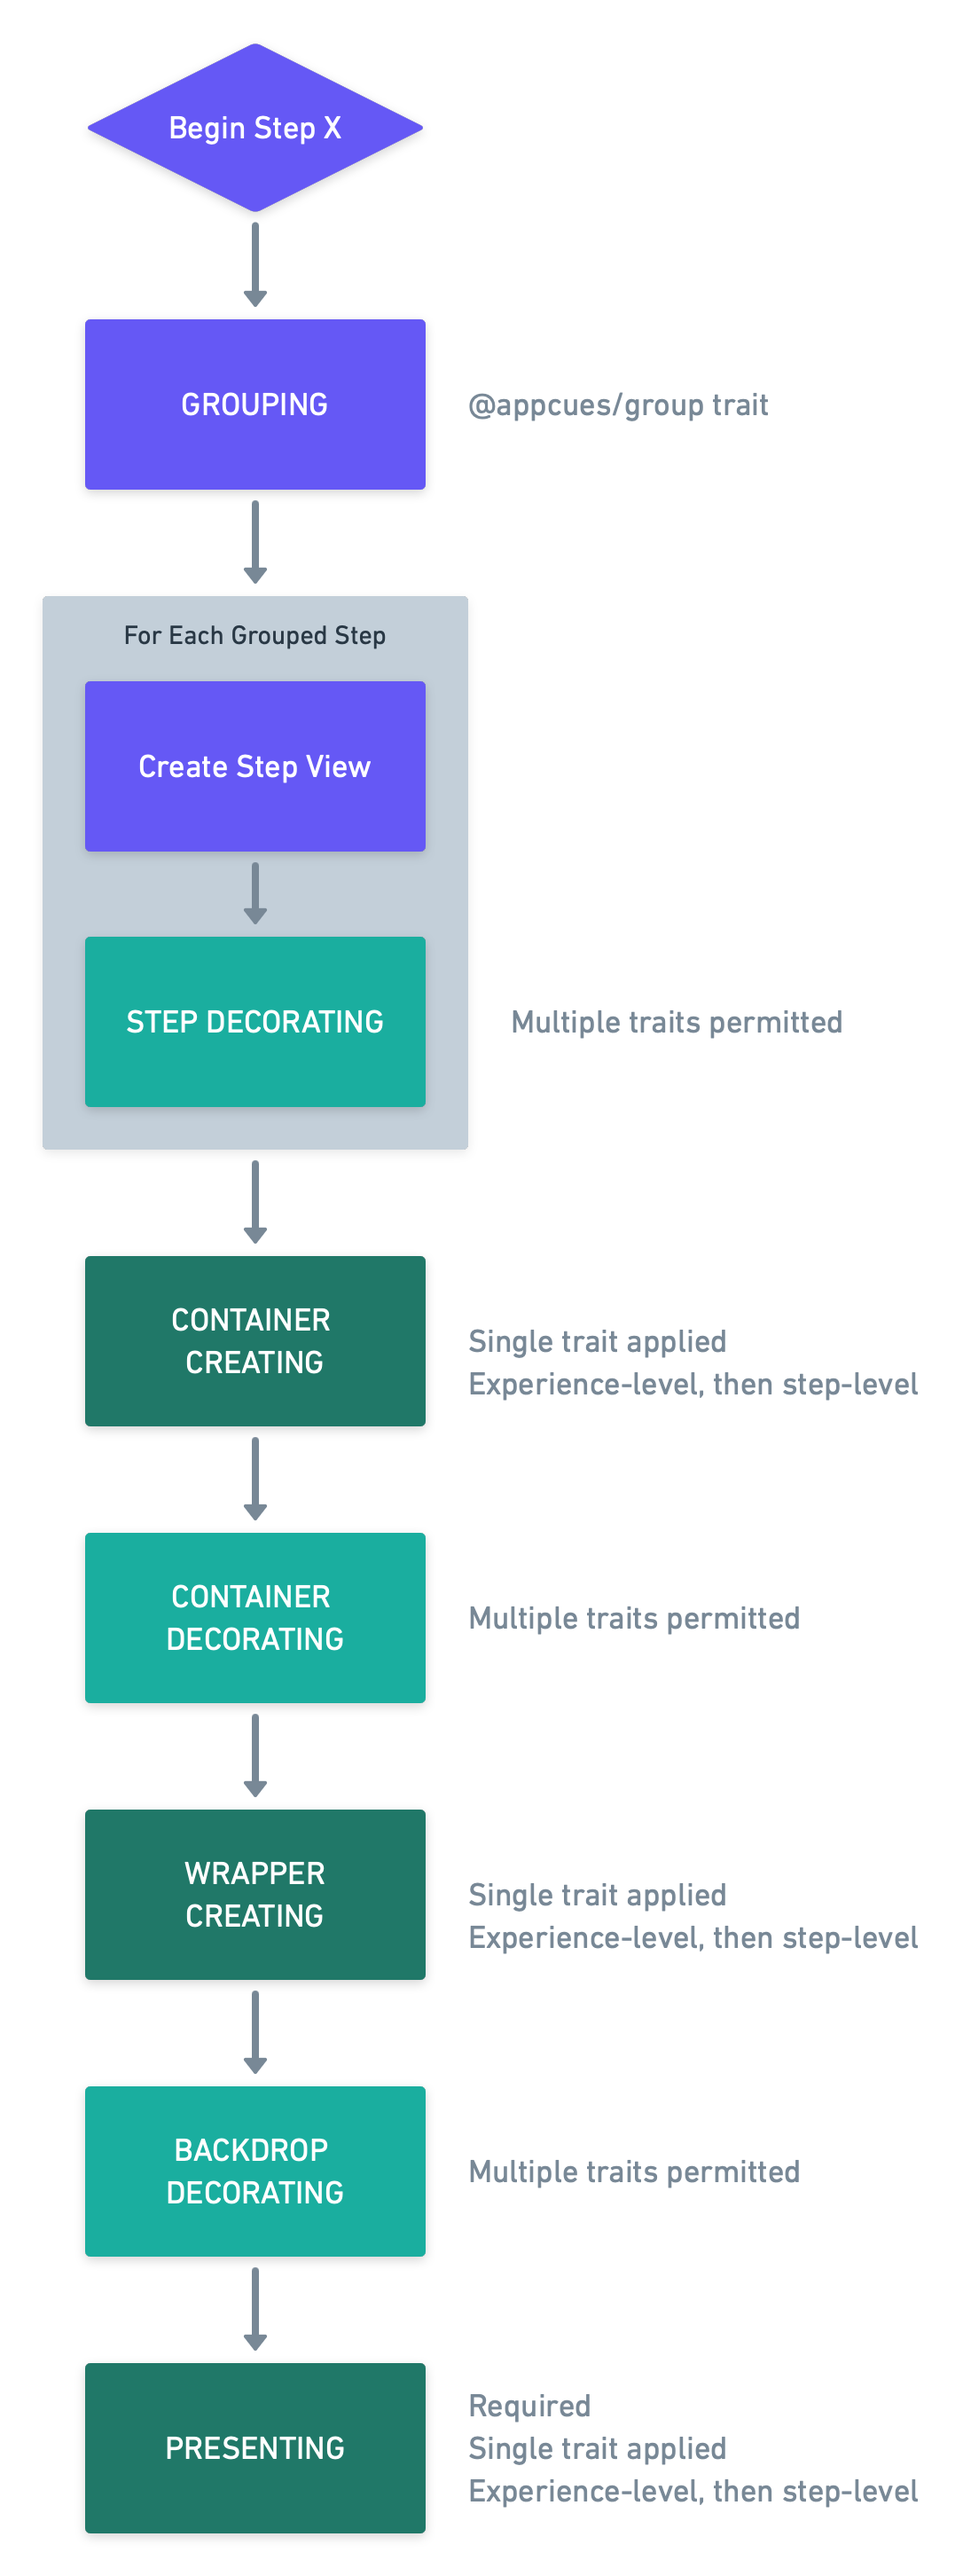
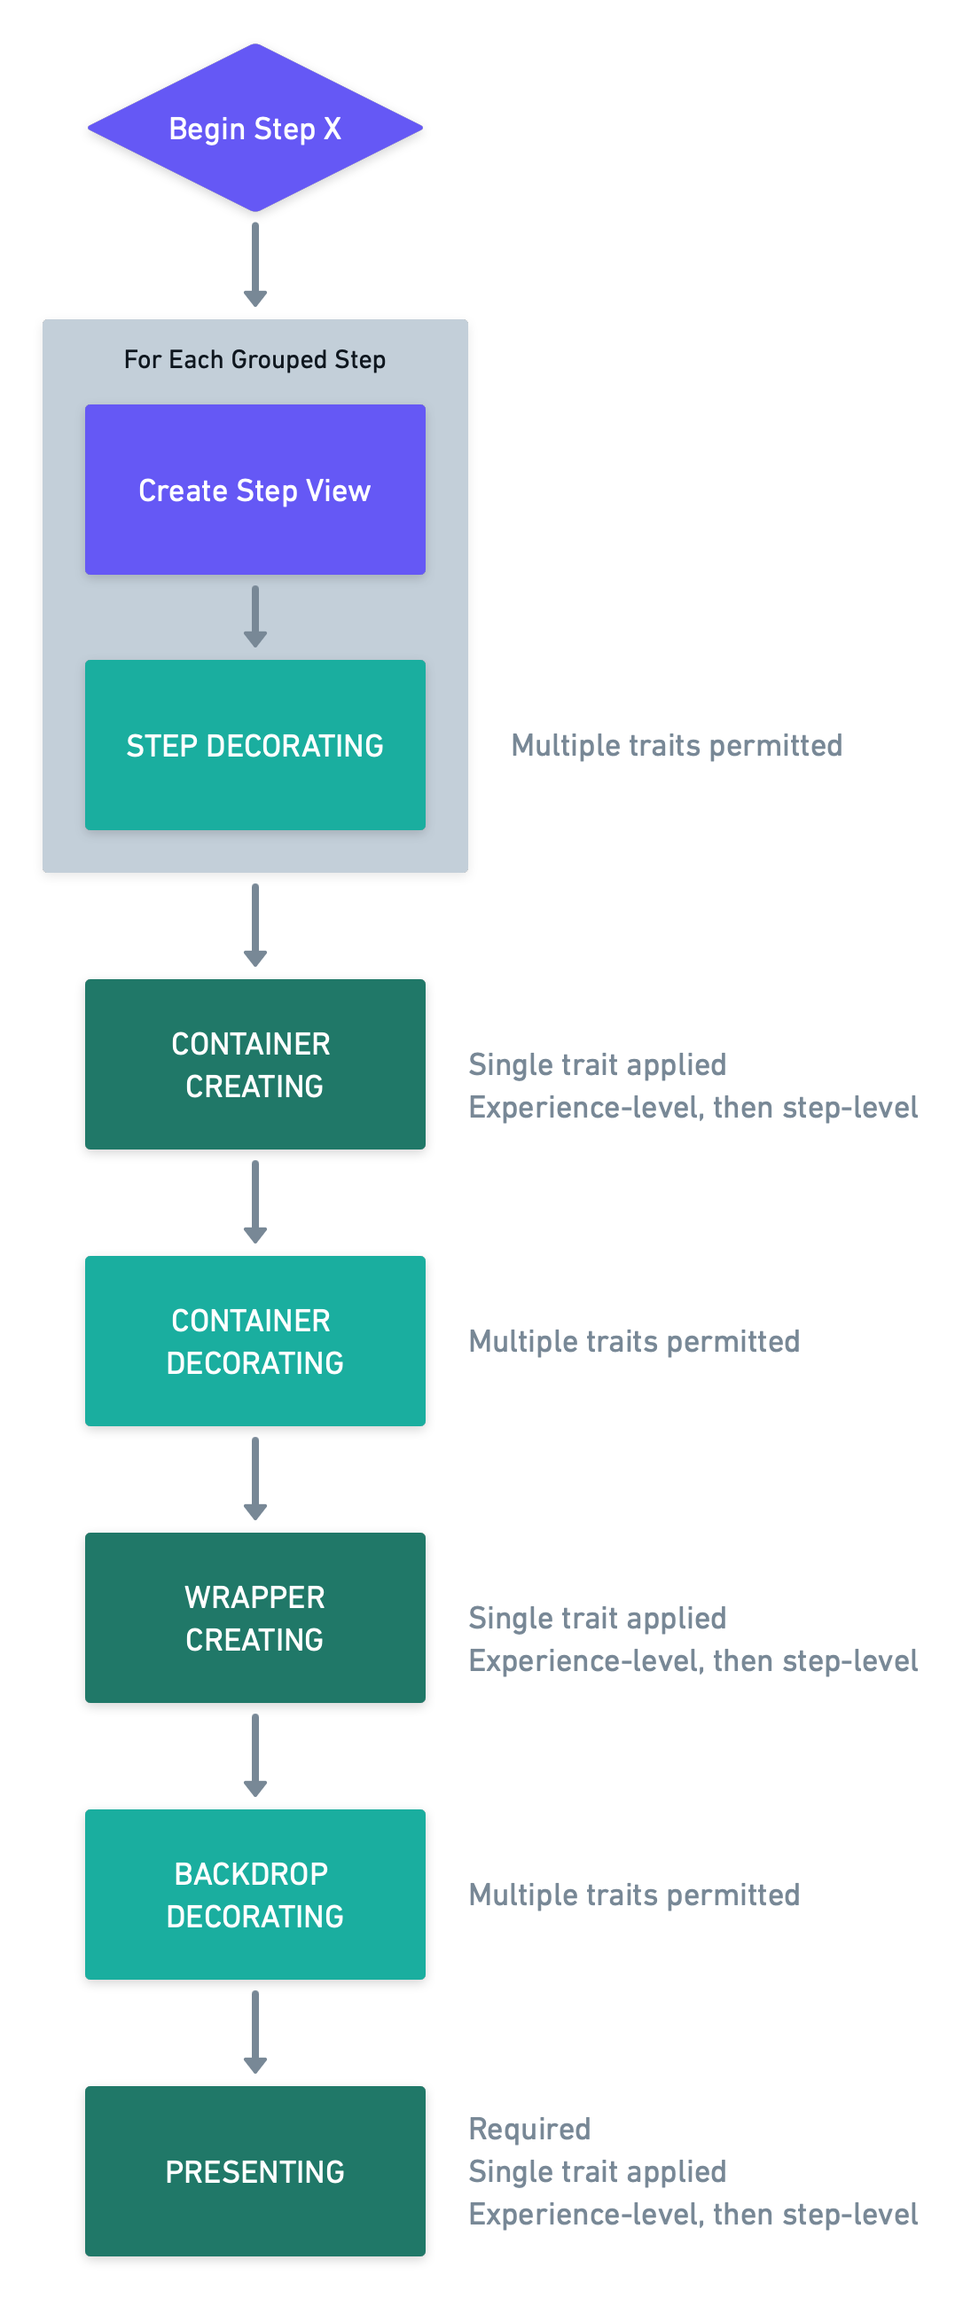
📝 Update documentation for recursive step grouping

diff --git a/Sources/AppcuesKit/AppcuesKit.docc/Traits.md b/Sources/AppcuesKit/AppcuesKit.docc/Traits.md
@@ -46,9 +46,9 @@ A ``PresentingTrait`` is responsible for providing the ability to show and hide 
 
 > Only a single ``PresentingTrait`` will be applied in the process of displaying an experience step even if multiple are defined.
 
-## Experience-Level and Step-Level Traits
+## Experience-Level, Group-Level, and Step-Level Traits
 
-The Appcues mobile experience data model allows for traits to be specified at the experience level or at the step level. Experience-level traits modify the entire experience and apply to all steps in the experience (with the exception of grouped traits; see below). Step-level traits are scoped to be applied only when the specific step is being displayed.
+The Appcues mobile experience data model allows for traits to be specified at the experience level, at the step-group level, or at the step level. Experience-level traits modify the entire experience and are applied when any step of the experience is being displayed. Group-level traits apply when any of child steps of the group is being displayed. Step-level traits are scoped to be applied only when the specific step is being displayed.
 
 In practice this distinction looks like this in the experience data model:
 
@@ -62,11 +62,21 @@ In practice this distinction looks like this in the experience data model:
         {
             ...
             "traits": [
-                // Step-level traits for the first step
+                // Group-level traits
+            ],
+            "children": [
+                {
+                    ...
+                    "content": { ... },
+                    "traits": [
+                        // Step-level traits for the first step
+                    ]
+                }
             ]
         },
         {
             ...
+            "content": { ... },
             "traits": [
                 // Step-level traits for the second step
             ]
@@ -79,86 +89,9 @@ In practice this distinction looks like this in the experience data model:
 
 Trait capabilities are applied in a defined sequence, and a trait with multiple capabilities will have its capabilities applied piecewise.
 
-![Begin Step X -> Grouping -> Create Step View -> Step Decorating -> Container Creating -> Container Decorating -> Wrapper Creating -> Backdrop Decorating -> Presenting](trait-flow.png)
+![Begin Step X -> Create Step View -> Step Decorating -> Container Creating -> Container Decorating -> Wrapper Creating -> Backdrop Decorating -> Presenting](trait-flow.png)
 
 > A trait with multiple capabilities may, in certain circumstances, not have all its capabilities applied. A ``BackdropDecoratingTrait`` will not be applied if no ``WrapperCreatingTrait`` is present. Additionally, single trait capabilities (i.e. ``ContainerCreatingTrait``, ``WrapperCreatingTrait``, and ``PresentingTrait``) will ignore all but the first trait model providing the capabilitity. The order of precedence is experience-level traits and then step-level traits, in their order in the experience object. 
-
-## Trait Grouping Behavior
-
-There are scenarios where experience-level traits may be intended to modify only a subset of the steps in an experience. For example, an experience with a single, full-screen modal followed by a standard dialog-style modal displaying as a carousel with two steps.
-
-To accomplish this, the Appcues mobile experience model includes two special traits, `@appcues/group` and `@appcues/group-item`. `@appcues/group` is an experience-level trait that defines a `groupID`, and `@appcues/group-item` is a step-level trait that references a `groupID` to identify the step as being part of the defined group. Other experience-level traits may also reference the `groupID` from their `config` object to identify themselves as only applying when a step from that group is being displayed to a user. 
-
-The experience model for this example would include the following:
-
-```json
-{
-    ...
-    "traits": [
-        // 1. Define the group
-        {
-            "type": "@appcues/group",
-            "config": {
-                "groupID": "11eef82d-f2df-4aeb-a085-07f6c0b92663"
-            }
-        },
-        {
-            "type": "@appcues/modal",
-            "config": {
-                // 2. Identify this modal trait as being part of the defined group
-                "groupID": "11eef82d-f2df-4aeb-a085-07f6c0b92663",
-                "presentationStyle": "dialog"
-            }
-        }
-    ],
-    "steps": [
-        {
-            // Step 1
-            ...
-            "traits": [
-                {
-                    "type": "@appcues/modal",
-                    "config": {
-                        "presentationStyle": "fullScreen"
-                    }
-                }
-            ]
-        },
-        {
-            // Step 2
-            ...
-            "traits": [
-                // 3. Indicate this step is part of the group
-                {
-                    "type": "@appcues/group-item",
-                    "config": {
-                        "groupID": "11eef82d-f2df-4aeb-a085-07f6c0b92663"
-                    }
-                }
-            ]
-        },
-        {
-            // Step 3
-            ...
-            "traits": [
-                // 3. Indicate this step is part of the group
-                {
-                    "type": "@appcues/group-item",
-                    "config": {
-                        "groupID": "11eef82d-f2df-4aeb-a085-07f6c0b92663"
-                    }
-                }
-            ]
-        }
-    ]
-}
-```
-
-> Any custom trait wishing to be groupable as an experience-level trait **must** map the `groupID` value in its ``ExperienceTrait/init(config:)`` with the following: `self.groupID = config?["groupID"] as? String`
-
-Use of `@appcues/group` and `@appcues/group-item` is how an ``ContainerCreatingTrait`` can be give more than one step to include. When any step in the group is being prepared to be shown, all other steps in the group are prepared as well. Note that all step-level traits from the group will be applied to the group as a whole.  
-
-> An experience may have multiple groups (i.e. have multiple experience-level `@appcues/group` traits), but each step may only be part of a single group (i.e. a step may only have a single `@appcues/group-item` trait).
 
 ## Error Handling
 
